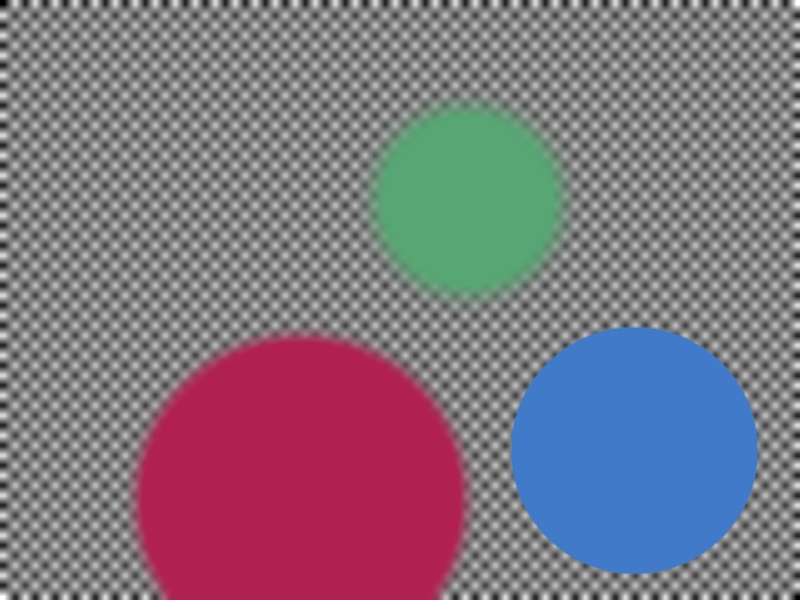
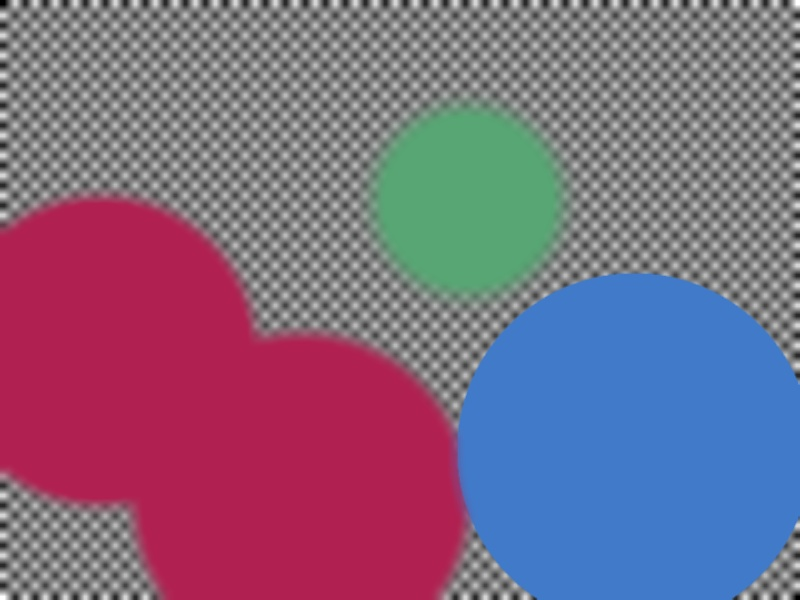
Updated blurring effect

Changed region(s): [[0.0, 0.3, 0.3438, 0.87], [0.5625, 0.45, 1.0, 1.0], [0.1875, 0.99, 0.2188, 1.0]]

diff --git a/src/pg_main.cpp b/src/pg_main.cpp
@@ -113,17 +113,22 @@ int main(int argc, char** argv)
         cv::Mat checkboard_blur_copy = checkboard_blur.clone();
 
 
-        cv::Scalar colors[] = { cv::Scalar(0.45, 0.65, 0.34), cv::Scalar(0.32, 0.13, 0.69), cv::Scalar(0.79, 0.48, 0.25) };
-        cv::Size filter_dimensions[] = { cv::Size(30, 30), cv::Size(20, 20), cv::Size(3, 3) };
-        cv::Point center[] = { cv::Point(rand() % 300 + 300, 200), cv::Point(300, 500), cv::Point(rand() % 400 + 300, 450) };
+        const int len_data = 4;
+        cv::Scalar colors[] = { cv::Scalar(0.45, 0.65, 0.34), cv::Scalar(0.32, 0.13, 0.69), 
+                        cv::Scalar(0.79, 0.48, 0.25), cv::Scalar(0.32, 0.13, 0.69) };
+        cv::Size filter_dimensions[] = { cv::Size(30, 30), cv::Size(20, 20), cv::Size(3, 3), cv::Size(20, 20) };
+        cv::Point center[] = { cv::Point(rand() % 300 + 300, 200), cv::Point(300, 500), 
+                        cv::Point(rand() % 400 + 300, 450), cv::Point(100, 350) };
 
-        cv::Mat masks[3];
-        cv::Mat blurred_imgs[3];
+        cv::Mat masks[len_data];
+        cv::Mat blurred_imgs[len_data];
 
         cv::Mat tmp, mask_blurred;
-        for (int i = 0; i < 3; i++) {
+        for (int i = 0; i < len_data; i++) {
             
-            cv::circle(checkboard_blur, center[i], rand() % 100 + 150, colors[i], thickness);
+            if(i == 2)
+                cv::circle(checkboard_blur, center[i], rand() % 50 + 55, colors[i], thickness);
+            cv::circle(checkboard_blur, center[i], rand() % 100 + 100, colors[i], thickness);
 
             cv::inRange(checkboard_blur, colors[i], colors[i], masks[i]);
 
@@ -143,7 +148,10 @@ int main(int argc, char** argv)
 
 
         cv::Mat foreground_mask(600, 800, CV_32FC3, cv::Scalar(0,0,0));
-        for (int i = 0; i < 3; i++) {
+        for (int i = 0; i < len_data; i++) {
+            cv::Mat tmp_fg;
+            cv::multiply(foreground_mask, masks[i], tmp_fg);
+            cv::subtract(foreground_mask, tmp_fg, foreground_mask);
             cv::add(foreground_mask, masks[i], foreground_mask);
         }
 
@@ -153,7 +161,10 @@ int main(int argc, char** argv)
 
 
         cv::Mat foreground(600, 800, CV_32FC3, cv::Scalar(0, 0, 0));
-        for (int i = 0; i < 3; i++) {
+        for (int i = 0; i < len_data; i++) {
+            cv::Mat tmp_fg;
+            cv::multiply(foreground, masks[i], tmp_fg);
+            cv::subtract(foreground, tmp_fg, foreground);
             cv::add(foreground, blurred_imgs[i], foreground);
         }
 
